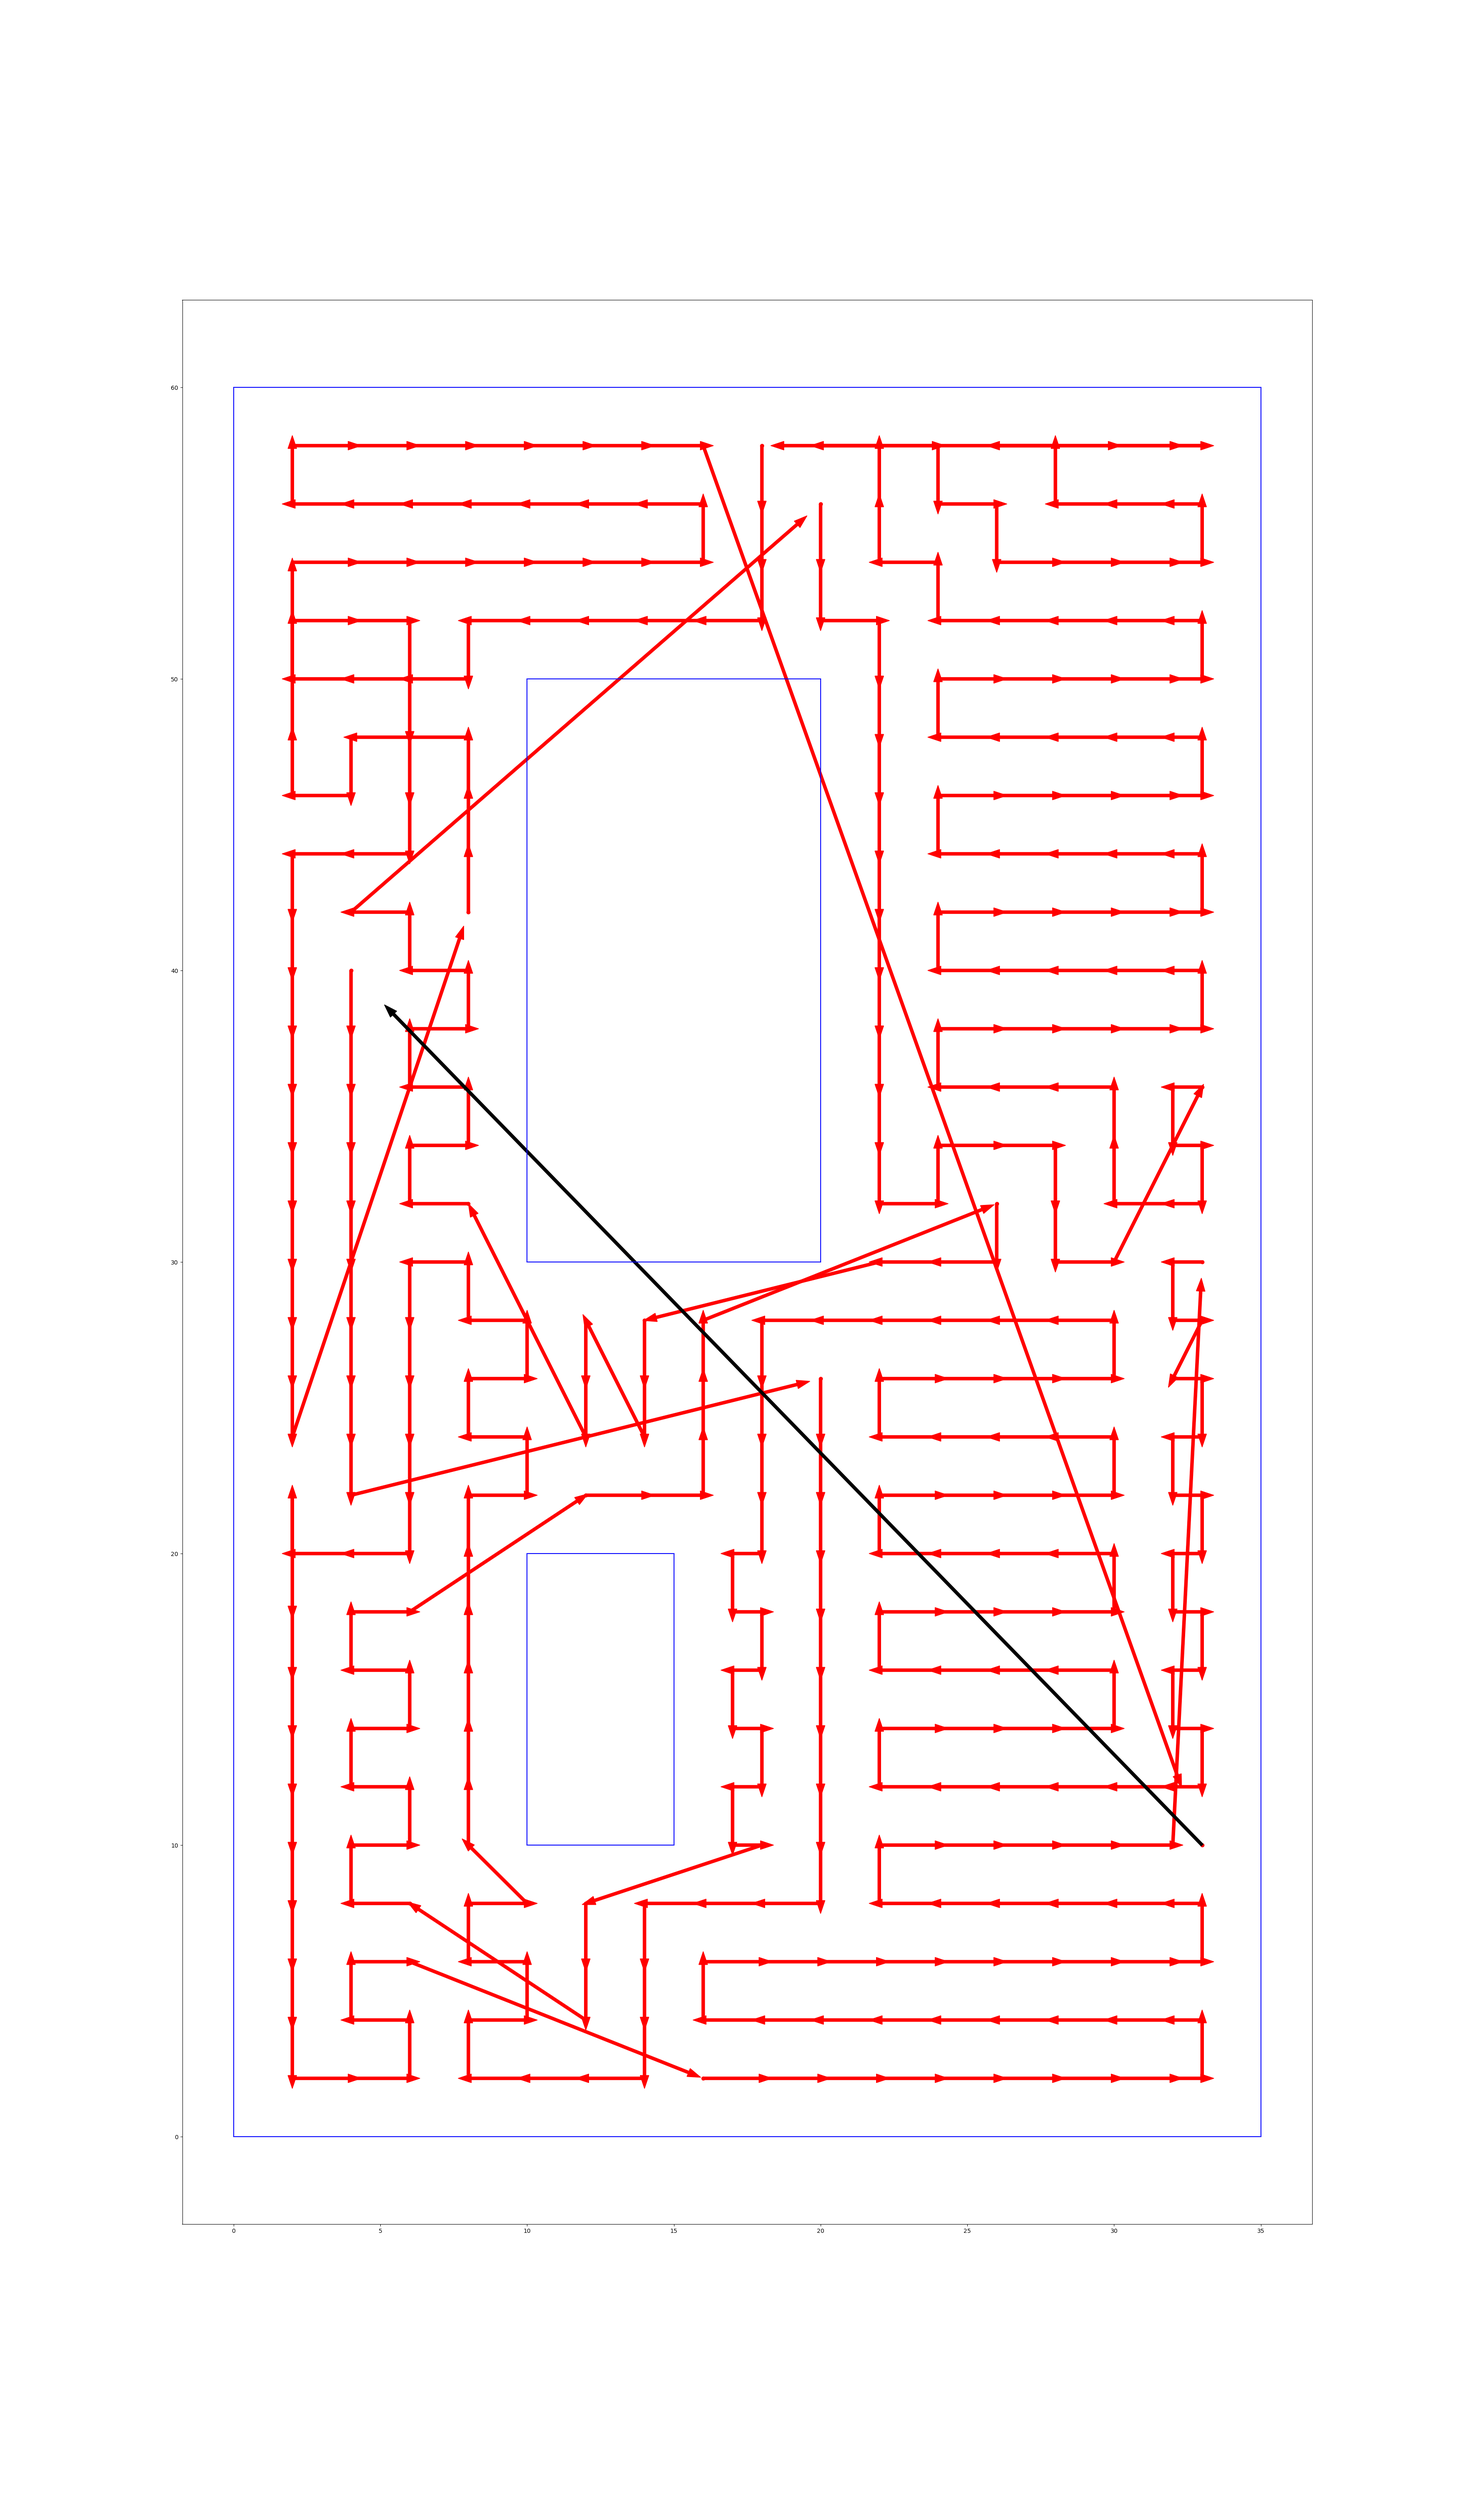
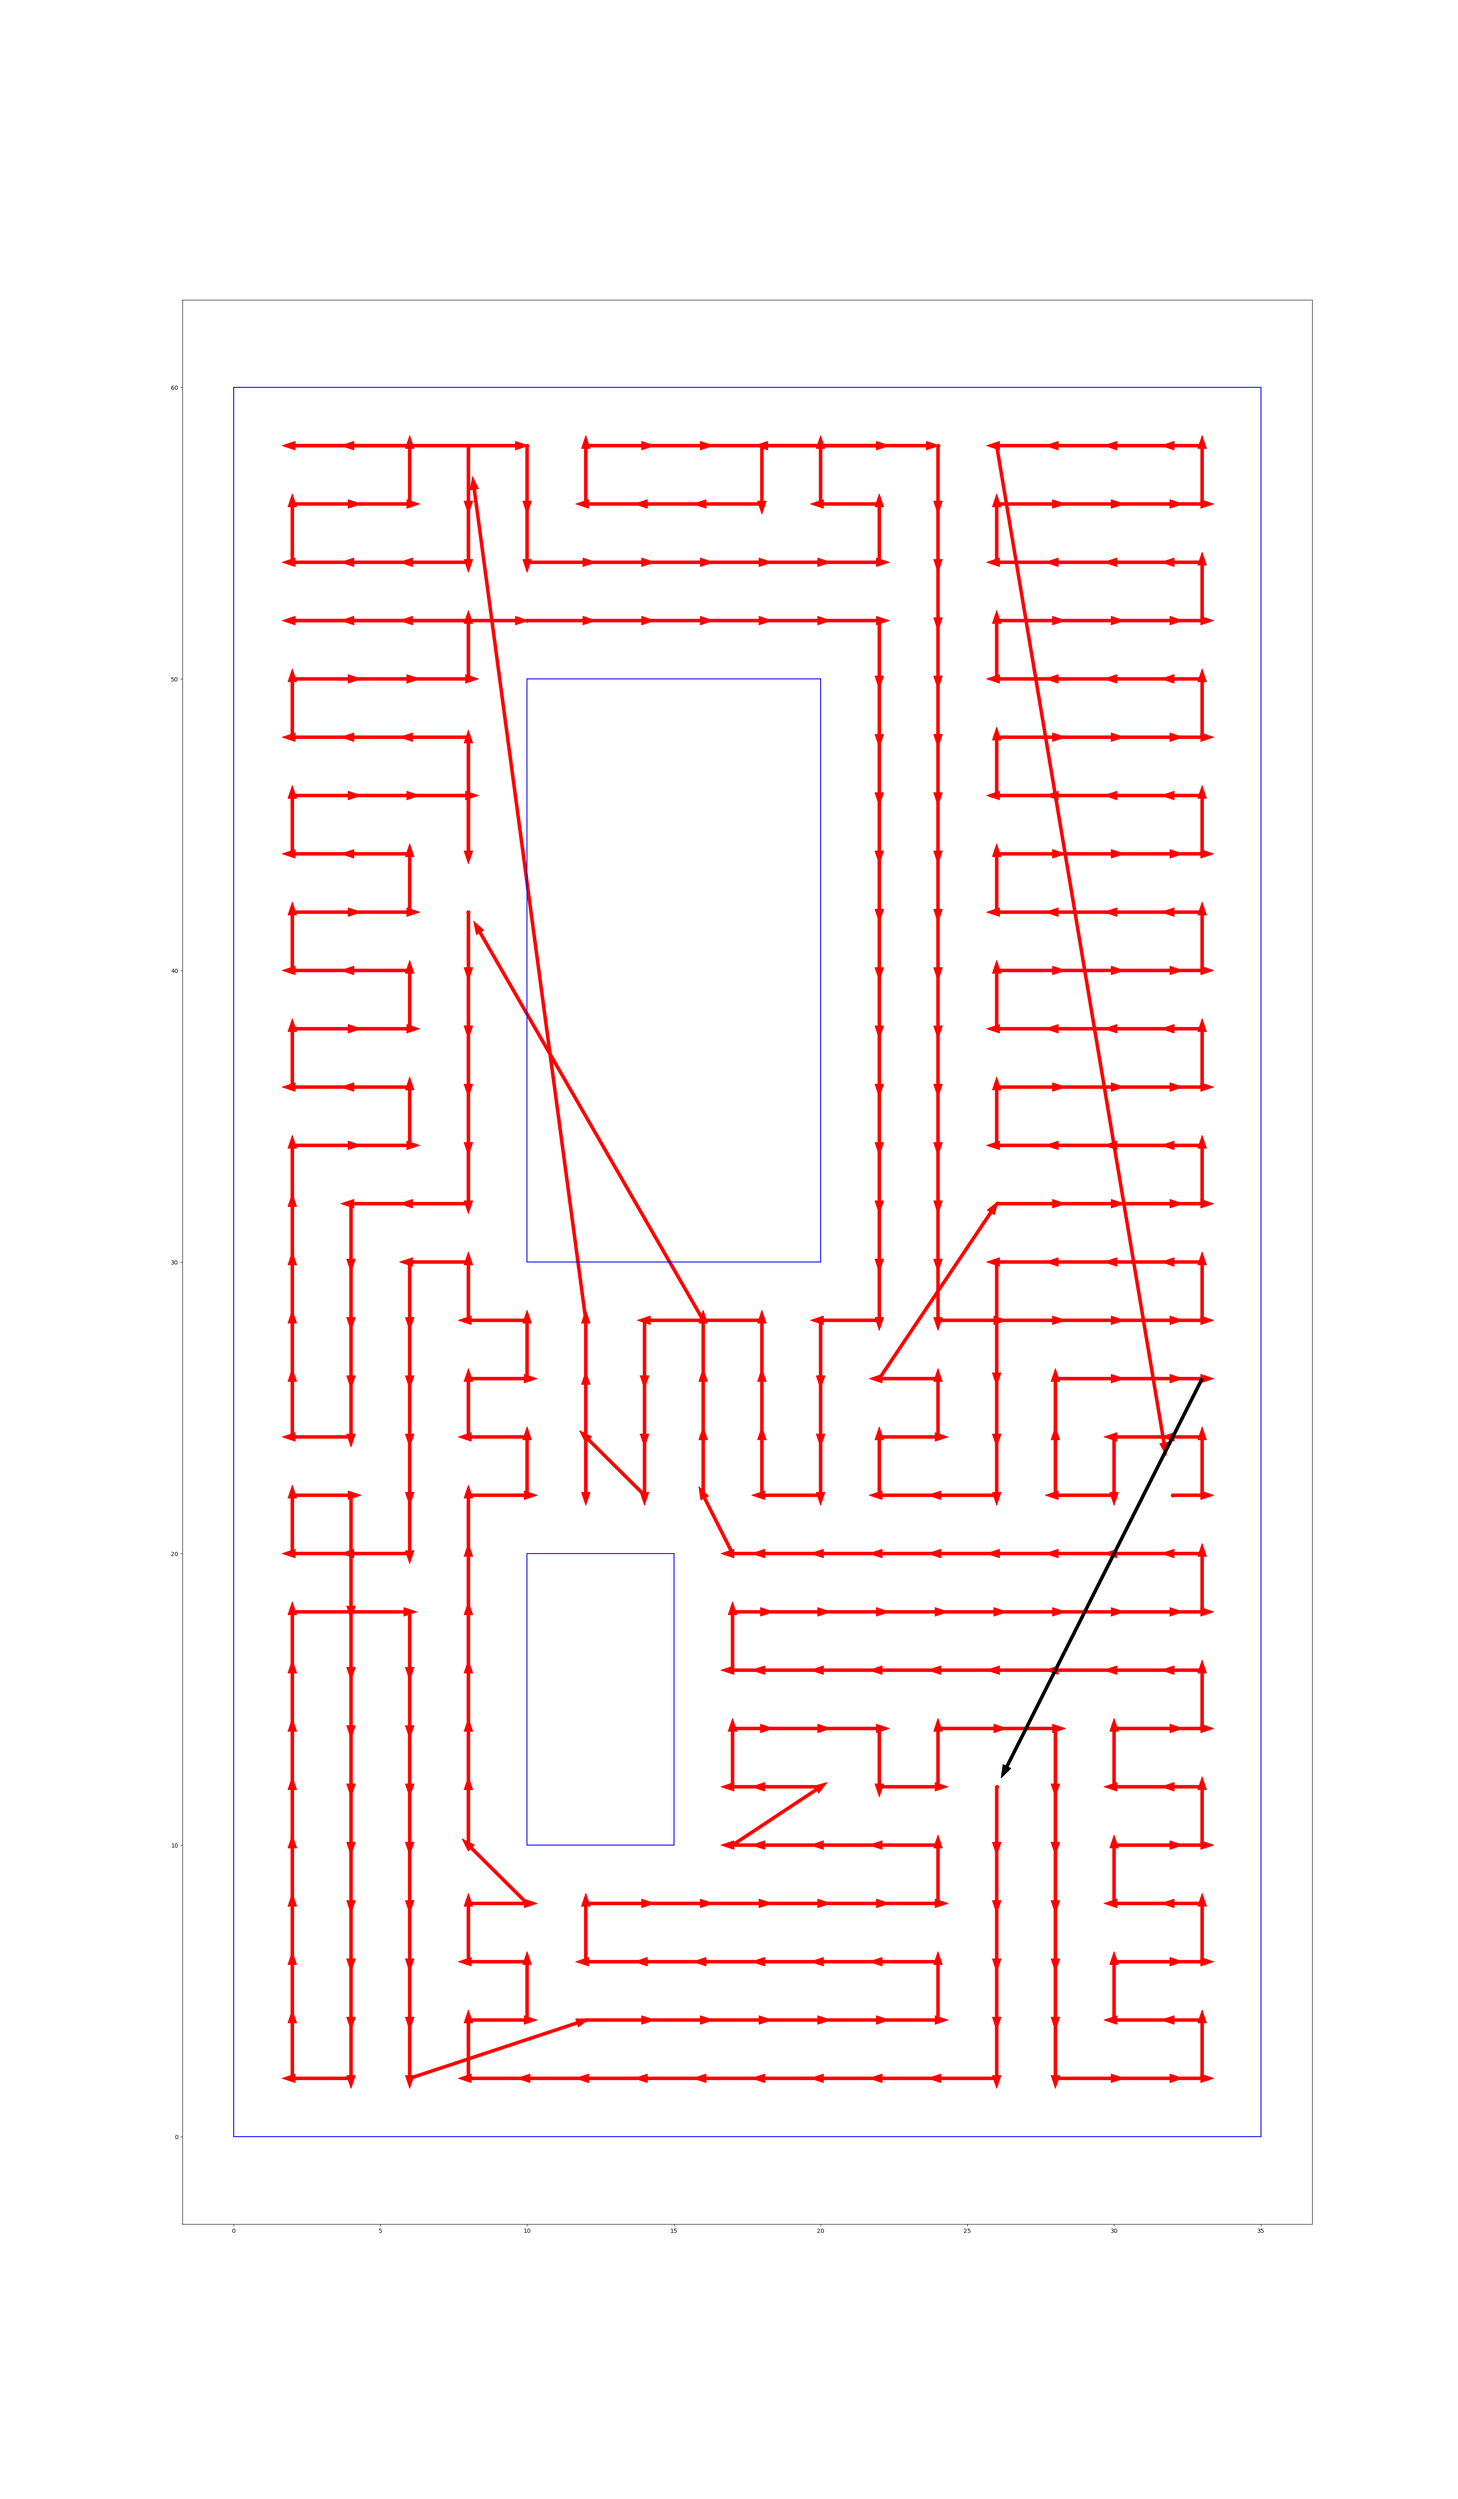
Adjusted learning

diff --git a/TSP Qlearning/car.py b/TSP Qlearning/car.py
@@ -6,9 +6,9 @@ class Car:
         self.n_stops = self.env.n_stops
         self.n_actions = self.n_stops
         self.Q = self.env.Q
-        self.eps = 0.5
-        self.eps_min = 0.1
-        self.eps_decay = 0.99
+        self.eps = 1.0
+        self.eps_min = 0
+        self.eps_decay = 0.85
 
         self.reset_memory()
         

diff --git a/TSP Qlearning/main.py b/TSP Qlearning/main.py
@@ -91,6 +91,6 @@ disc = 0.9
 env = Environment()
 car = Car(env)
 
-run_episodes(env, car, lr, disc, 1000)
+run_episodes(env, car, lr, disc, 10000)
 show_path(env, car, "path.png")
 
